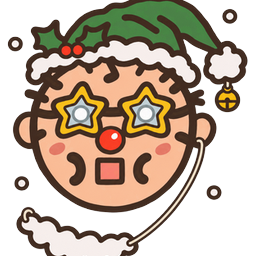
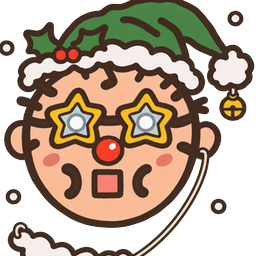
ドラのクリスマスの驚いた顔の顔アイコンだけ、顔の幅をふつうにそろえて切り直す(ミハリの指摘・r1119-172)
- 元の絵の surprise は頭が小さく(幅 293・ふつうは 312)ひげが下へ長いので、9枚同じ切り方だと顔が一回り小さかった。拡大率を 0.821→0.874 にして、肌の中心をふつうの顔と同じ所へ置いた(ひげの先は丸の下で切れる)
- 9枚を並べた絵: docs/progress/event-xmas-2026/dra-santa-faces.jpg

Claude-Session: https://claude.ai/code/session_0113GBaBheZ5Ad4Ht2XoodYC

diff --git a/monster-hero/index.html b/monster-hero/index.html
@@ -102,7 +102,7 @@ var GAME_BUILD = '5946cc7fa7a1';
 window.__mhGameBuild = GAME_BUILD;
 // 画面に出す版の日時(BUILD_DATE)。本体の中に書くと、ビルドのたびに本体の中身(と GAME_BUILD)が変わり、
 // 事前ダウンロードにためた本体が使えなくなるので、ここから渡す。tools/stamp-version.js が version.json と同じ値を打つ
-window.__mhBuildDate = '2026-11-25 20:50';
+window.__mhBuildDate = '2026-11-25 22:31';
 // 起動でいちばん大きいのは本体JS(約2.7MB)。いちばん後ろで読むため、そこへ来ると
 // ゲージが止まって見えていた。先に取りはじめて、受け取ったバイト数をそのまま出す。
 // ここで取ったものはブラウザのキャッシュに載るので、下の <script> は取り直さない
